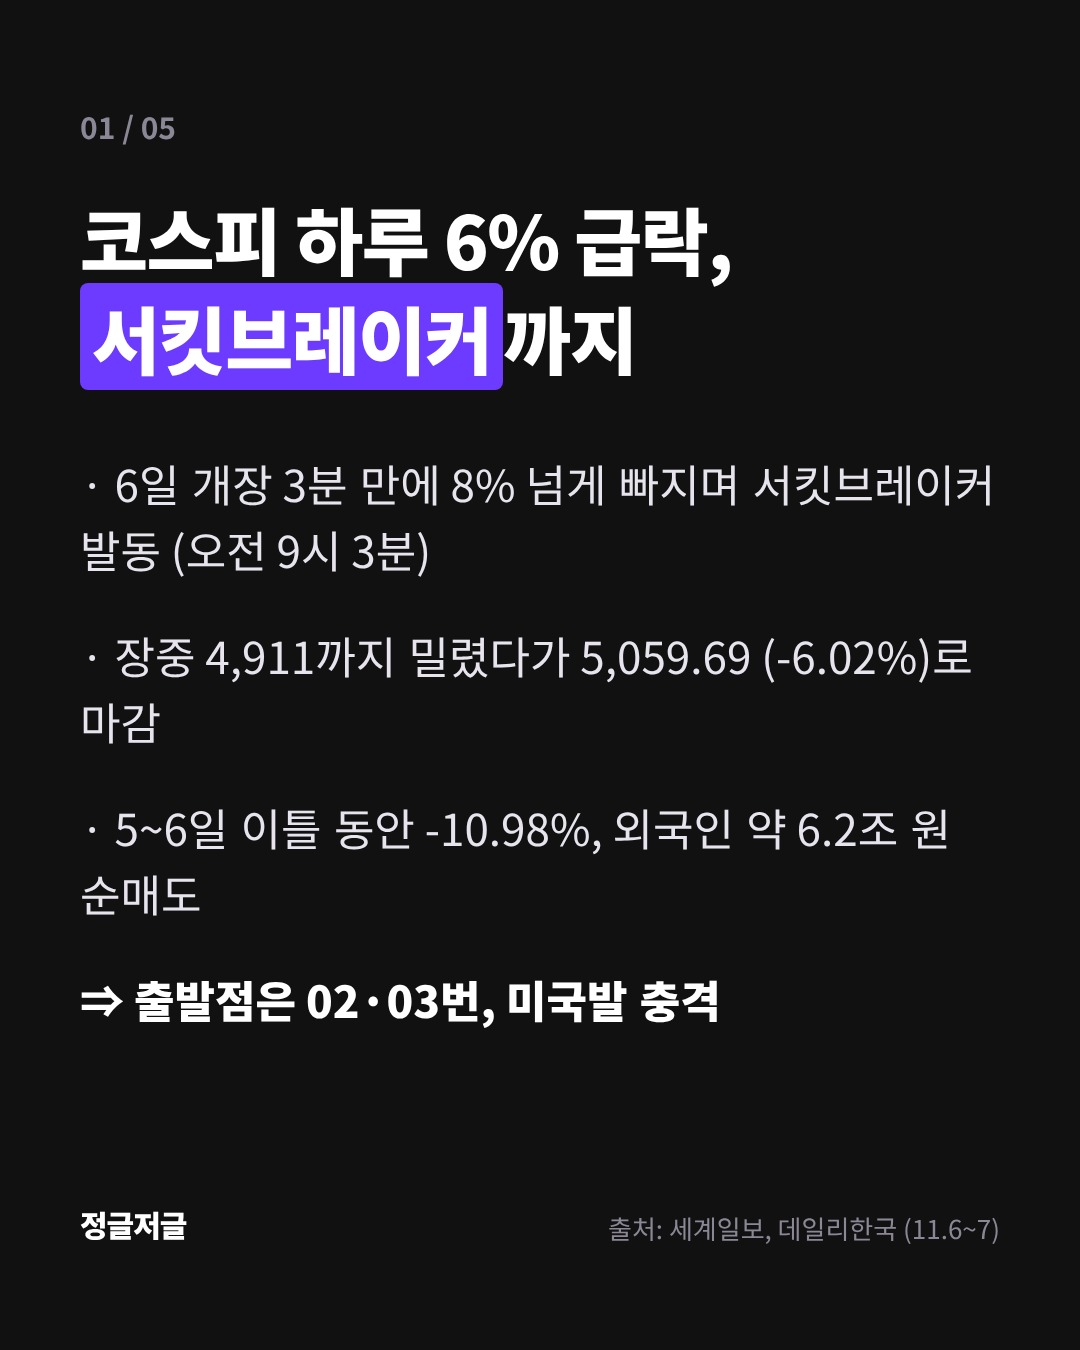
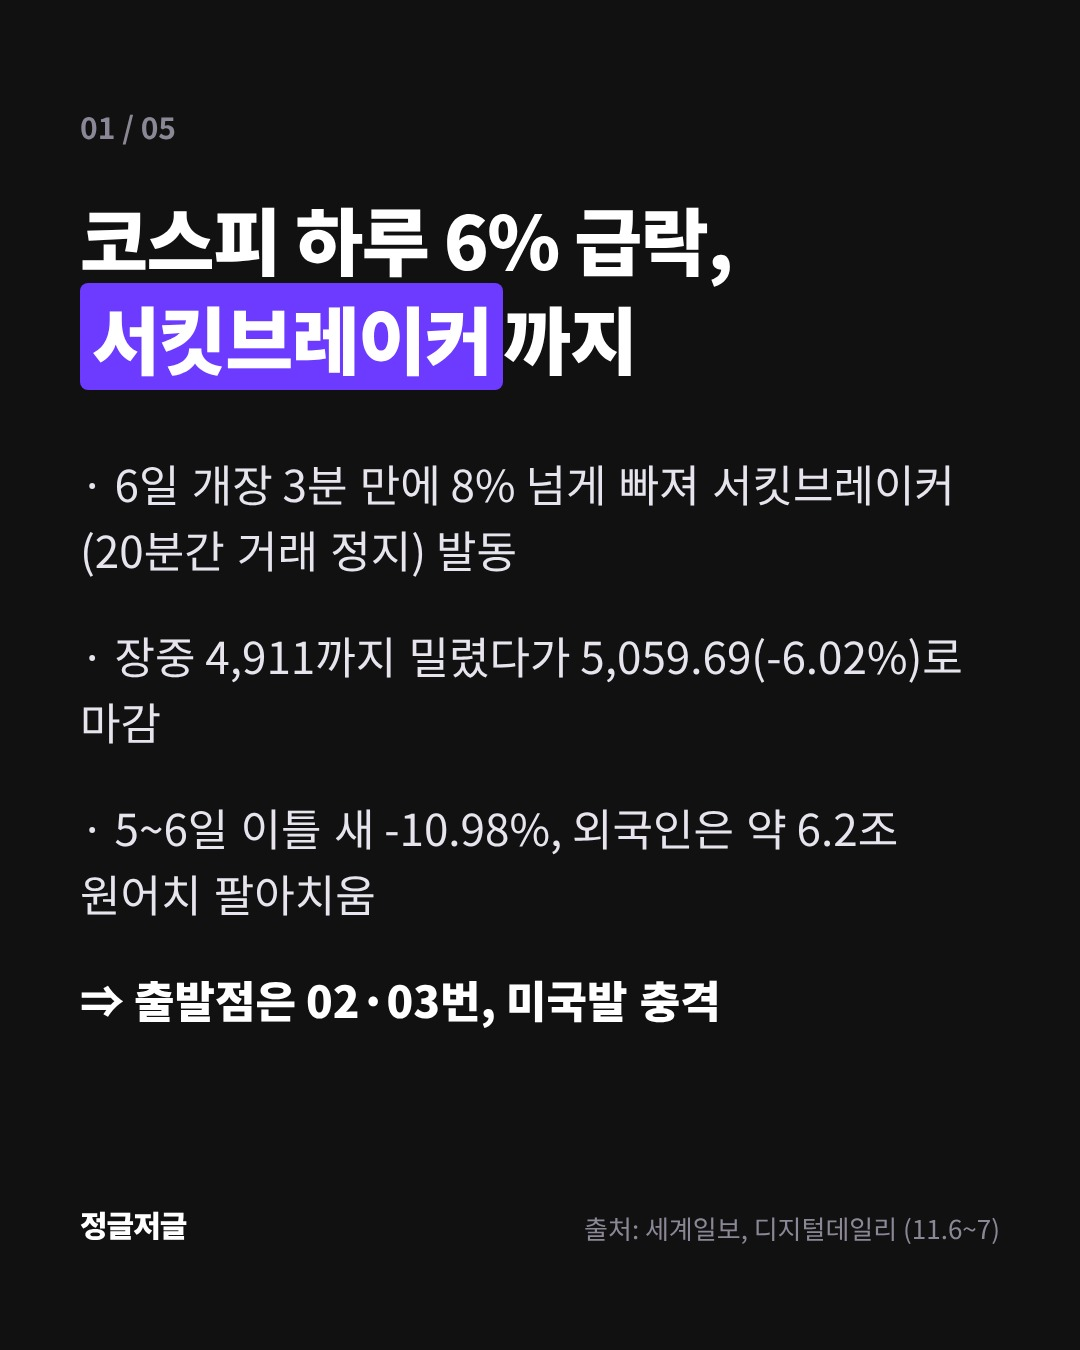
Queue weekly news carousel for 2026-11-08 19:00 KST (+story 19:05)
Applied review fixes: corrected source credits, removed single-source figures,
added plain-language explanations for circuit breaker, PBR and current account.

Claude-Session: https://claude.ai/code/session_01YRvW7WFwVC1AscgLsxRiaG

diff --git a/playbook/log/2026-11-08.md b/playbook/log/2026-11-08.md
@@ -1,0 +1,7 @@
+# 2026-11-08 운영 로그
+
+- 첫 게시물: 19:00 '주간 돈 뉴스 5' 캐러셀 7장 + 19:05 표지 스토리. 이번 주 코스피 서킷브레이커 주간이라 주간 요약이 저장 가치가 가장 큼.
+- 7인 검토 1차: 팩트체커 FAIL(출처 표기 오류 1건, 단일 출처 숫자 다수), 독자 대표 FAIL(서킷브레이커·PBR·경상흑자 설명 없음). 지적대로 출처 수정, 단일 출처 숫자(1.8배, KIND 공개일, 3,406억, 260.3%, 방산주, WSJ 집계) 삭제, 용어 풀이 추가.
+- 캡션 첫 줄을 '미국 선거 → 내 계좌, 사흘' 훅으로 올리고 저장 CTA 추가. 원인을 한쪽 탓으로 읽히지 않게 'AI 투자 수익성 의심' 맥락 한 줄 추가.
+- 해시태그 실험 A(없음)로 시작.
+- 버린 후보: 영국 금리 인상(출처 확인 부족), 국산 비만치료제 처방 시작(지난주 이슈).
